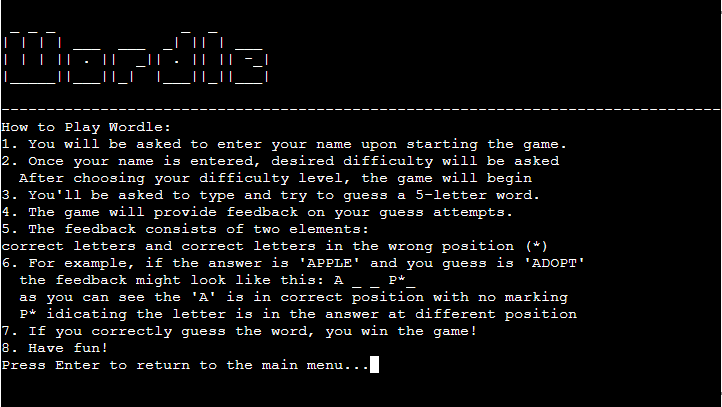
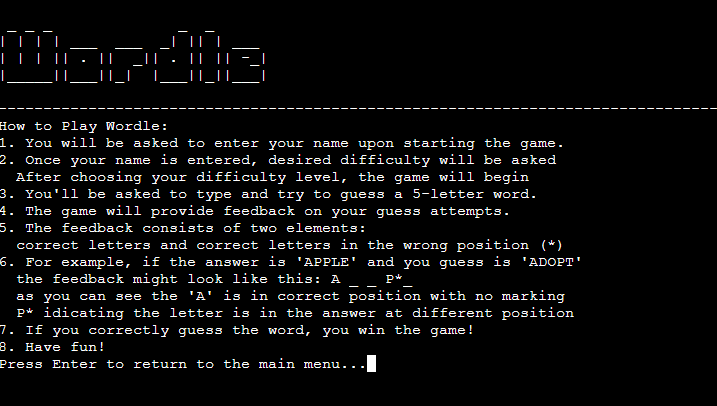
Update README.md contents and decsription and add how-to-play screenshot

Changed region(s): [[0.0, 0.266, 1.0, 0.9163], [0.0, 0.0591, 0.3682, 0.2069]]

diff --git a/README.md b/README.md
@@ -1,10 +1,10 @@
 # Wordle Game
 
-![shown on a variety of screen sizes](documentation/responsive.webp)
+![shown on a variety of screen sizes](assets/responsive.png)
 
 The deployed site: [Wordle](https://wordle-ci-569efaee926b.herokuapp.com/)
 
-description
+Wordle Game is a captivating and intellectually stimulating word puzzle that challenges players to guess a five-letter word within a limited number of attempts. This interactive game combines the thrill of word discovery with the excitement of problem-solving. Players choose from three difficulty levels, tailoring the challenge to their skill level. 
 
 ## CONTENTS
 * [Introduction](#introduction)
@@ -13,10 +13,13 @@ description
   * [Site Goals](#site-goals)
 
 * [Development](#development)
-  * [Initial Flow Chart](#initial-flow-chart)
+  * [Flow Chart](#flow-chart)
   * [Features](#features)
-    * [Wordle Game Menu](#main-menu)
-  * [Google Sheets](#google-sheets)
+    * [Wordle Game Menu](#wordle-game-menu)
+    * [Google Sheets](#google-sheets)
+    * [Highscores Tracking](#highscores-tracking)
+    * [Clear Gameplay](#clear-gameplay)
+    * [End Game Options](#end-game-options)
 
 * [Technologies Used](#technologies-used)
   * [Languages Used](#languages-used)
@@ -24,15 +27,14 @@ description
 
 * [Deployment & Local Development](#deployment--local-development)
   * [Deployment](#deployment)
-  * [Local Development](#local-development)
+  * [How to Fork](#how-to-fork)
+  * [How to Clone](#how-to-clone)
 
 * [Testing](#testing)
   * [Bugs](#Bugs)
   
 * [Credits](#credits)
   * [Code Used](#code-used)
-  * [Content](#content)
-  * [Media](#media)
   * [Acknowledgments](#acknowledgments)
 
 - - -
@@ -114,7 +116,9 @@ The game records players' high scores. It shows the top scorers, making it excit
 
 #### Clear Gameplay
 
-Players get all the instructions they need to play. The game takes them through each step, from entering their name to choosing a difficulty level and starting to guess words.
+Players get all the instructions they need to play from the how to play section. Also the game takes them through each step, from entering their name to choosing a difficulty level and starting to guess words.
+
+![How to Play](assets/how-to-play.png)
 
 #### End Game Options
 
@@ -217,6 +221,8 @@ Readme.md and Testing.md write structure was written by using my past project as
 
 ### Acknowledgments
 
-I would like to acknowledge the following people:
+I would like to thank the following people:
+
+* My girlfirend ege for her support and testing attempts.
 
 * My code institute mentor Jubril Akole for his support and working extra just to have a final meeting with me before the deadline.
